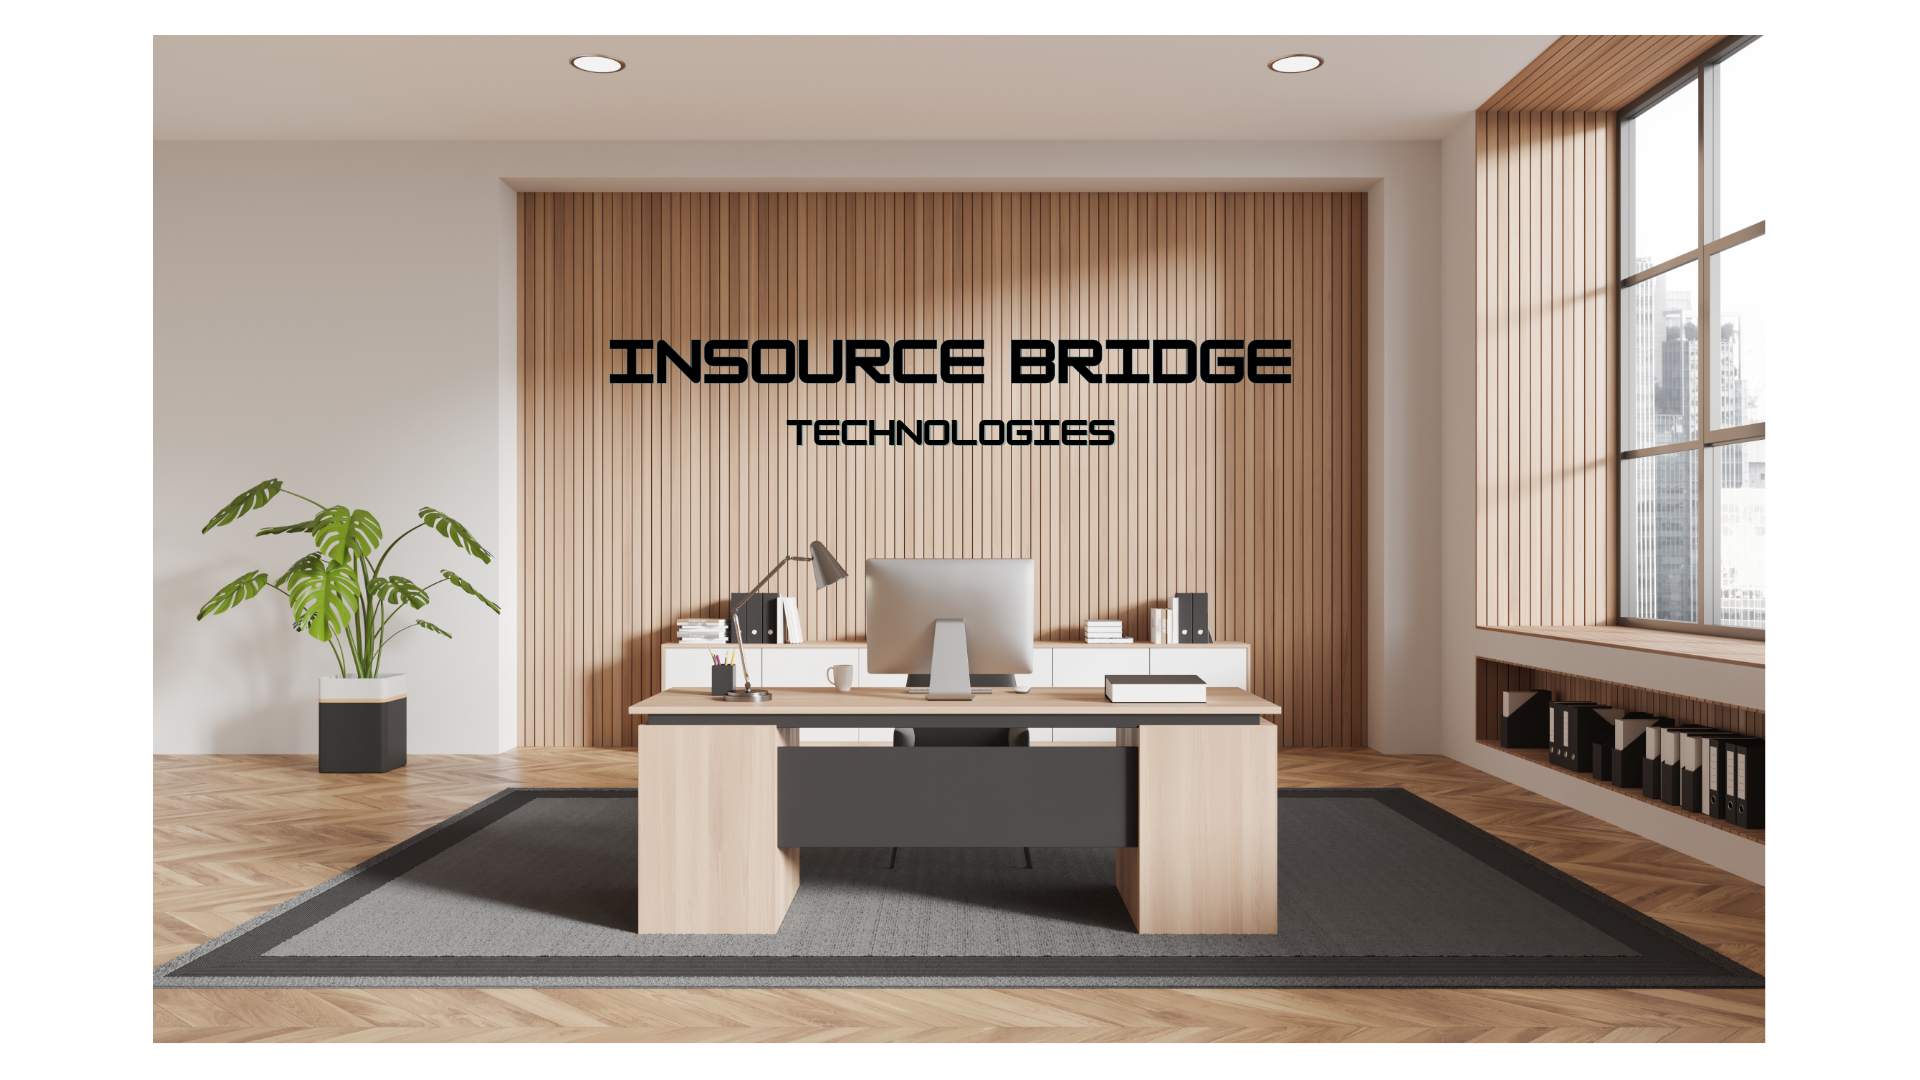
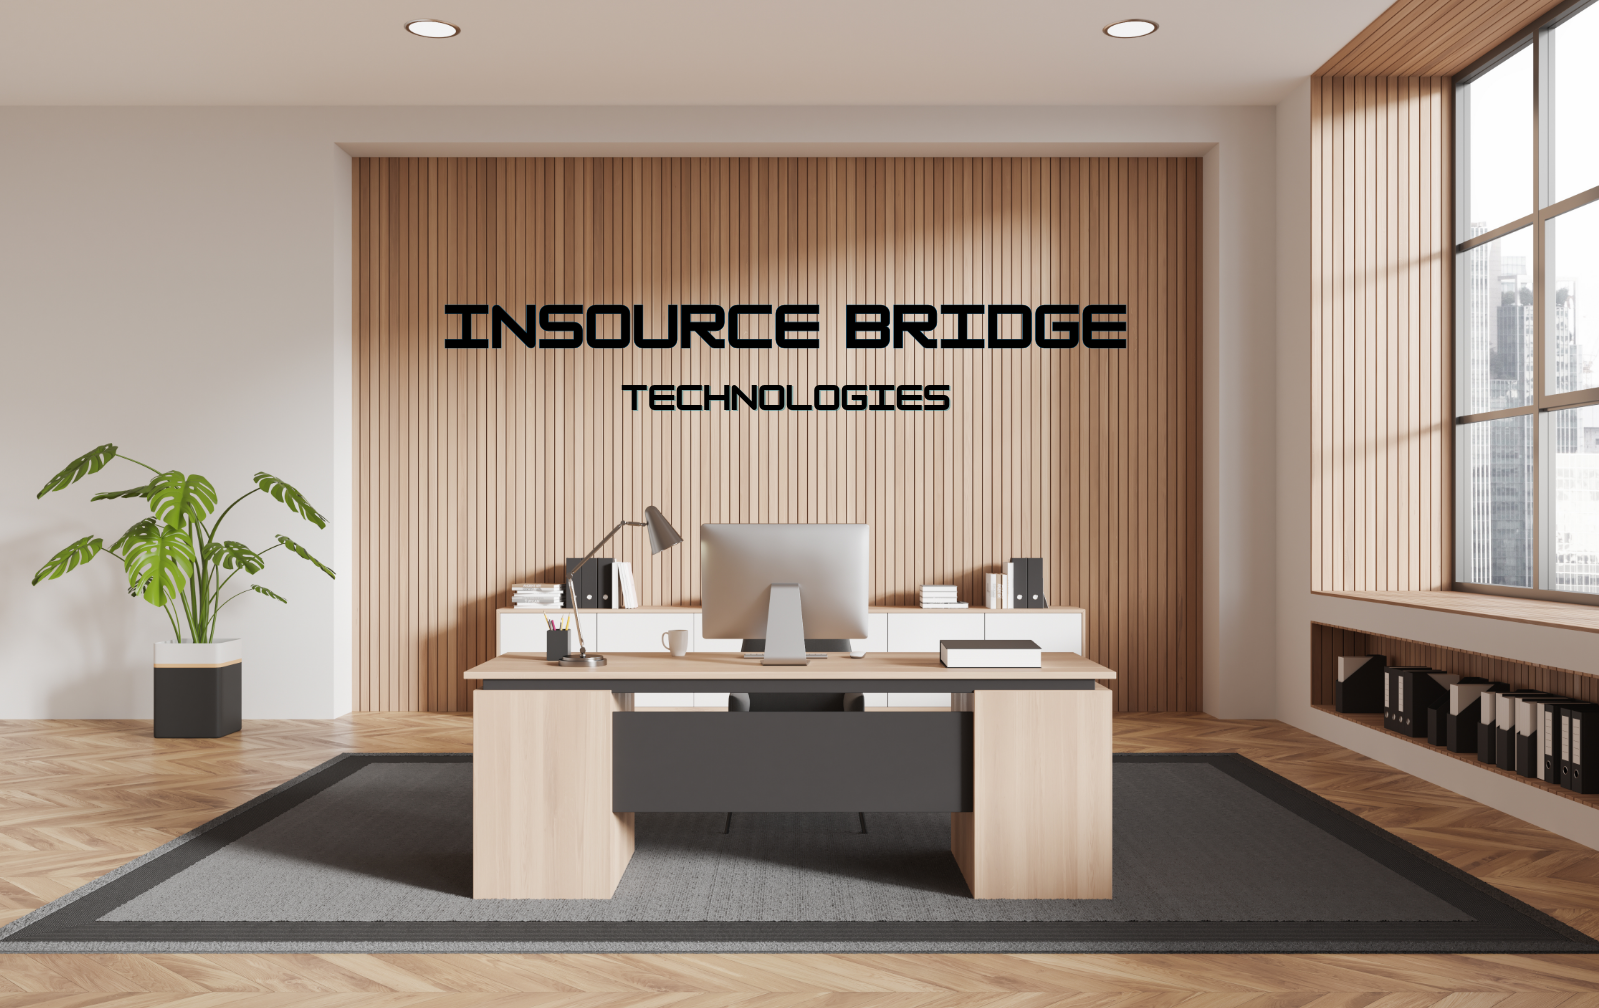
Refactor App component: remove unused routes and components, update AboutSection layout, enhance Vision and Mission text, and replace image source for improved clarity and design consistency.

diff --git a/frontend/src/components/User/AboutSection/About.tsx b/frontend/src/components/User/AboutSection/About.tsx
@@ -20,8 +20,8 @@ export default function AboutUsSection() {
   return (
     <section id="about" className="section-block">
       <div className="page-shell">
-        <div className="grid items-center gap-8 lg:grid-cols-2 lg:gap-12">
-          <Reveal variant="left" className="order-2 lg:order-1">
+        <div className="grid items-stretch gap-8 lg:grid-cols-2 lg:gap-12">
+          <Reveal variant="left" className="order-2 flex flex-col justify-center lg:order-1">
             <p className="eyebrow">About us</p>
             <h2 className="display-title">
               WHAT OUR
@@ -46,16 +46,19 @@ export default function AboutUsSection() {
             </motion.button>
           </Reveal>
 
-          <Reveal variant="right" className="order-1 lg:order-2">
+          <Reveal
+            variant="right"
+            className="order-1 h-full min-h-[18rem] lg:order-2 sm:min-h-[22rem]"
+          >
             <motion.div
-              whileHover={{ scale: 1.02 }}
+              whileHover={{ scale: 1.015 }}
               transition={{ duration: 0.45, ease: [0.16, 1, 0.3, 1] }}
-              className="overflow-hidden rounded-[1.75rem] bg-[var(--color-muted)] sm:rounded-[2rem]"
+              className="relative h-full min-h-[18rem] overflow-hidden rounded-[1.75rem] bg-[var(--color-muted)] sm:min-h-[22rem] sm:rounded-[2rem]"
             >
               <img
                 src="/Insourcebridgetech.png"
                 alt="Insource Bridge Technologies Team"
-                className="aspect-[4/3] w-full object-cover"
+                className="absolute inset-0 h-full w-full object-cover object-center"
               />
             </motion.div>
           </Reveal>

diff --git a/frontend/src/App.tsx b/frontend/src/App.tsx
@@ -1,18 +1,7 @@
 import { BrowserRouter as Router, Routes, Route } from "react-router-dom";
 import Home from "./pages/User/Home";
-import About from "./pages/Admin/About";
-import Services from "./pages/Admin/Services";
-import AddServices from "./pages/Admin/AddServices";
-import Solutions from "./pages/Admin/Solutions";
-import AddSolutions from "./pages/Admin/AddSolutions";
-import WhyUs from "./pages/Admin/WhyUs";
-import Login from "./pages/Admin/login";
-import ChangePass from './pages/Admin/changePass'
-import ResetPassword from './pages/Admin/ResetPassword'
 import { ToastContainer } from "react-toastify";
 import "react-toastify/dist/ReactToastify.css";
-import ProtectedRoute from "./routes/protectedRoute";
-import PublicRoute from "./routes/publicRoute";
 
 function App() {
   return (
@@ -21,19 +10,6 @@ function App() {
       <Router>
         <Routes>
           <Route path="/" element={<Home />} />
-          <Route element={<PublicRoute />}>
-            <Route path="/login" element={<Login />} />
-            <Route path='/resetPassword/:token' element={<ResetPassword/>} />
-          </Route>
-          <Route element={<ProtectedRoute />}>
-            <Route path="/admin" element={<About />} />
-            <Route path="/services" element={<Services />} />
-            <Route path="/addServices" element={<AddServices />} />
-            <Route path="/solutions" element={<Solutions />} />
-            <Route path="/addSolutions" element={<AddSolutions />} />
-            <Route path="/whyUs" element={<WhyUs />} />
-            <Route path="/changePass" element={<ChangePass />} />
-          </Route>
         </Routes>
       </Router>
     </>

diff --git a/frontend/src/components/User/VisionAndMission/visionAndMission.tsx b/frontend/src/components/User/VisionAndMission/visionAndMission.tsx
@@ -21,7 +21,8 @@ const MissionVisionComponent = () => {
             GO BIG WITH <span className="accent-text">PURPOSE</span>
           </h2>
           <p className="section-copy">
-            Driving technology excellence in the GCC region
+            Driving technology excellence across the GCC — with clarity,
+            partnership, and lasting impact.
           </p>
         </Reveal>
 
@@ -32,8 +33,10 @@ const MissionVisionComponent = () => {
                 Built for the next chapter
               </h3>
               <p className="mt-4 max-w-md text-[0.95rem] leading-relaxed text-[var(--color-text-muted)]">
-                Vision and mission that keep every engagement focused on
-                measurable outcomes.
+                We bridge complex business challenges with practical technology
+                solutions. Our vision and mission keep every engagement focused
+                on measurable outcomes, stronger operations, and long-term
+                growth for the organisations we serve.
               </p>
             </div>
             <motion.div
@@ -42,9 +45,9 @@ const MissionVisionComponent = () => {
               className="overflow-hidden rounded-[1.25rem] sm:rounded-[1.5rem]"
             >
               <img
-                src="/Insourcebridgetech.png"
-                alt="Insource Bridge Technologies"
-                className="aspect-[16/10] w-full object-cover"
+                src="/insourcextech2.png"
+                alt="Insource Bridge Technologies office"
+                className="aspect-[16/10] h-full w-full object-cover"
               />
             </motion.div>
           </div>

diff --git a/frontend/src/components/User/Card/Card.tsx b/frontend/src/components/User/Card/Card.tsx
@@ -36,9 +36,6 @@ export default function Card({
             className="h-full w-full object-cover transition duration-500 group-hover:scale-105"
           />
           <div className="absolute inset-0 bg-gradient-to-t from-[var(--color-panel)]/25 to-transparent opacity-0 transition group-hover:opacity-100" />
-          <div className="absolute right-2.5 top-2.5 flex h-8 w-8 items-center justify-center rounded-full bg-[var(--color-accent)] text-white opacity-0 shadow-md transition group-hover:opacity-100">
-            <ArrowUpRight size={14} />
-          </div>
         </div>
 
         <div className="flex flex-1 flex-col px-3.5 py-3.5 sm:px-4 sm:py-4">
